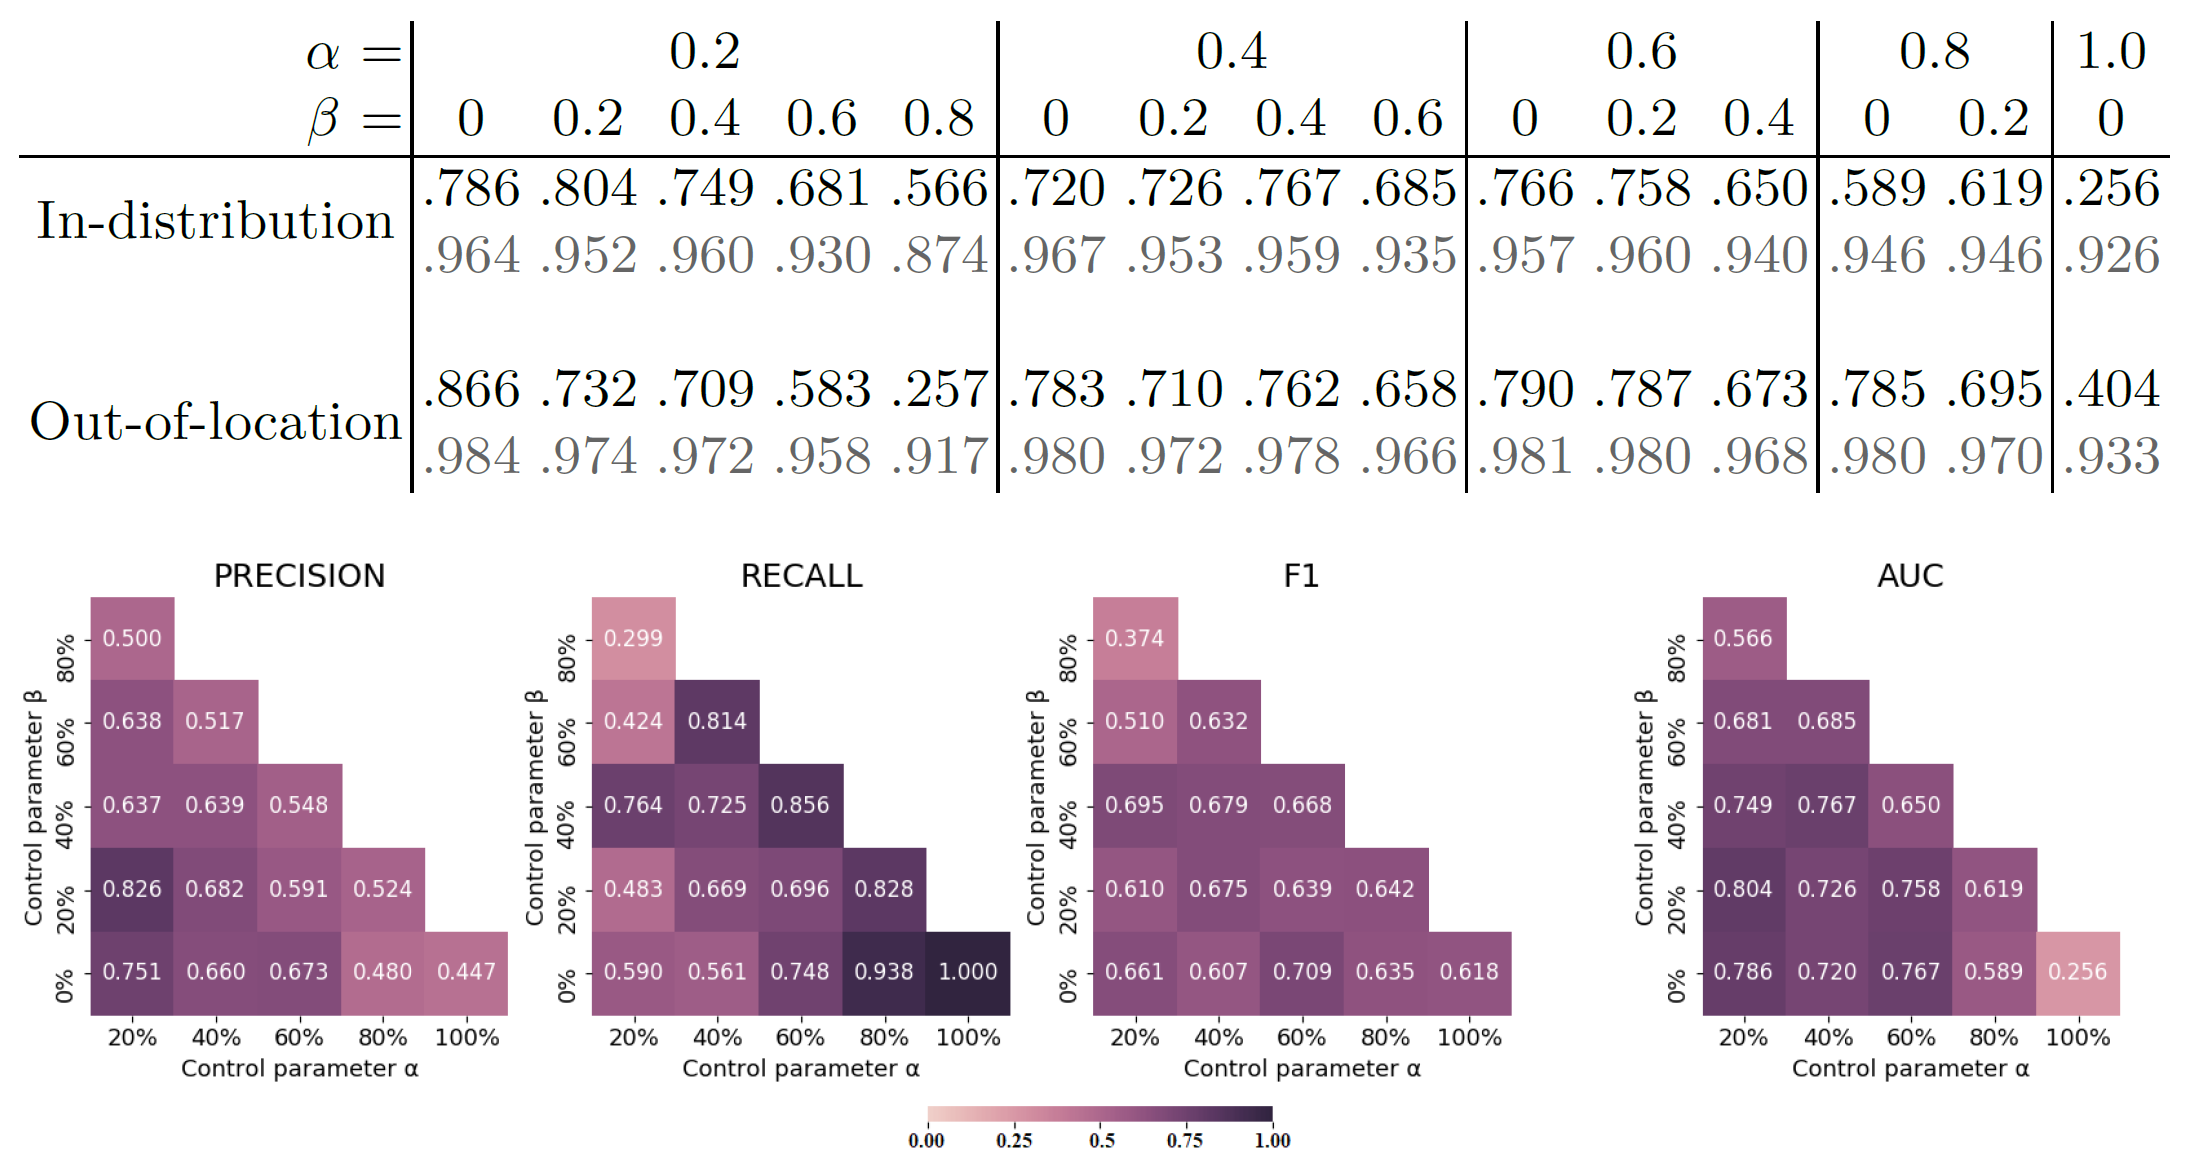
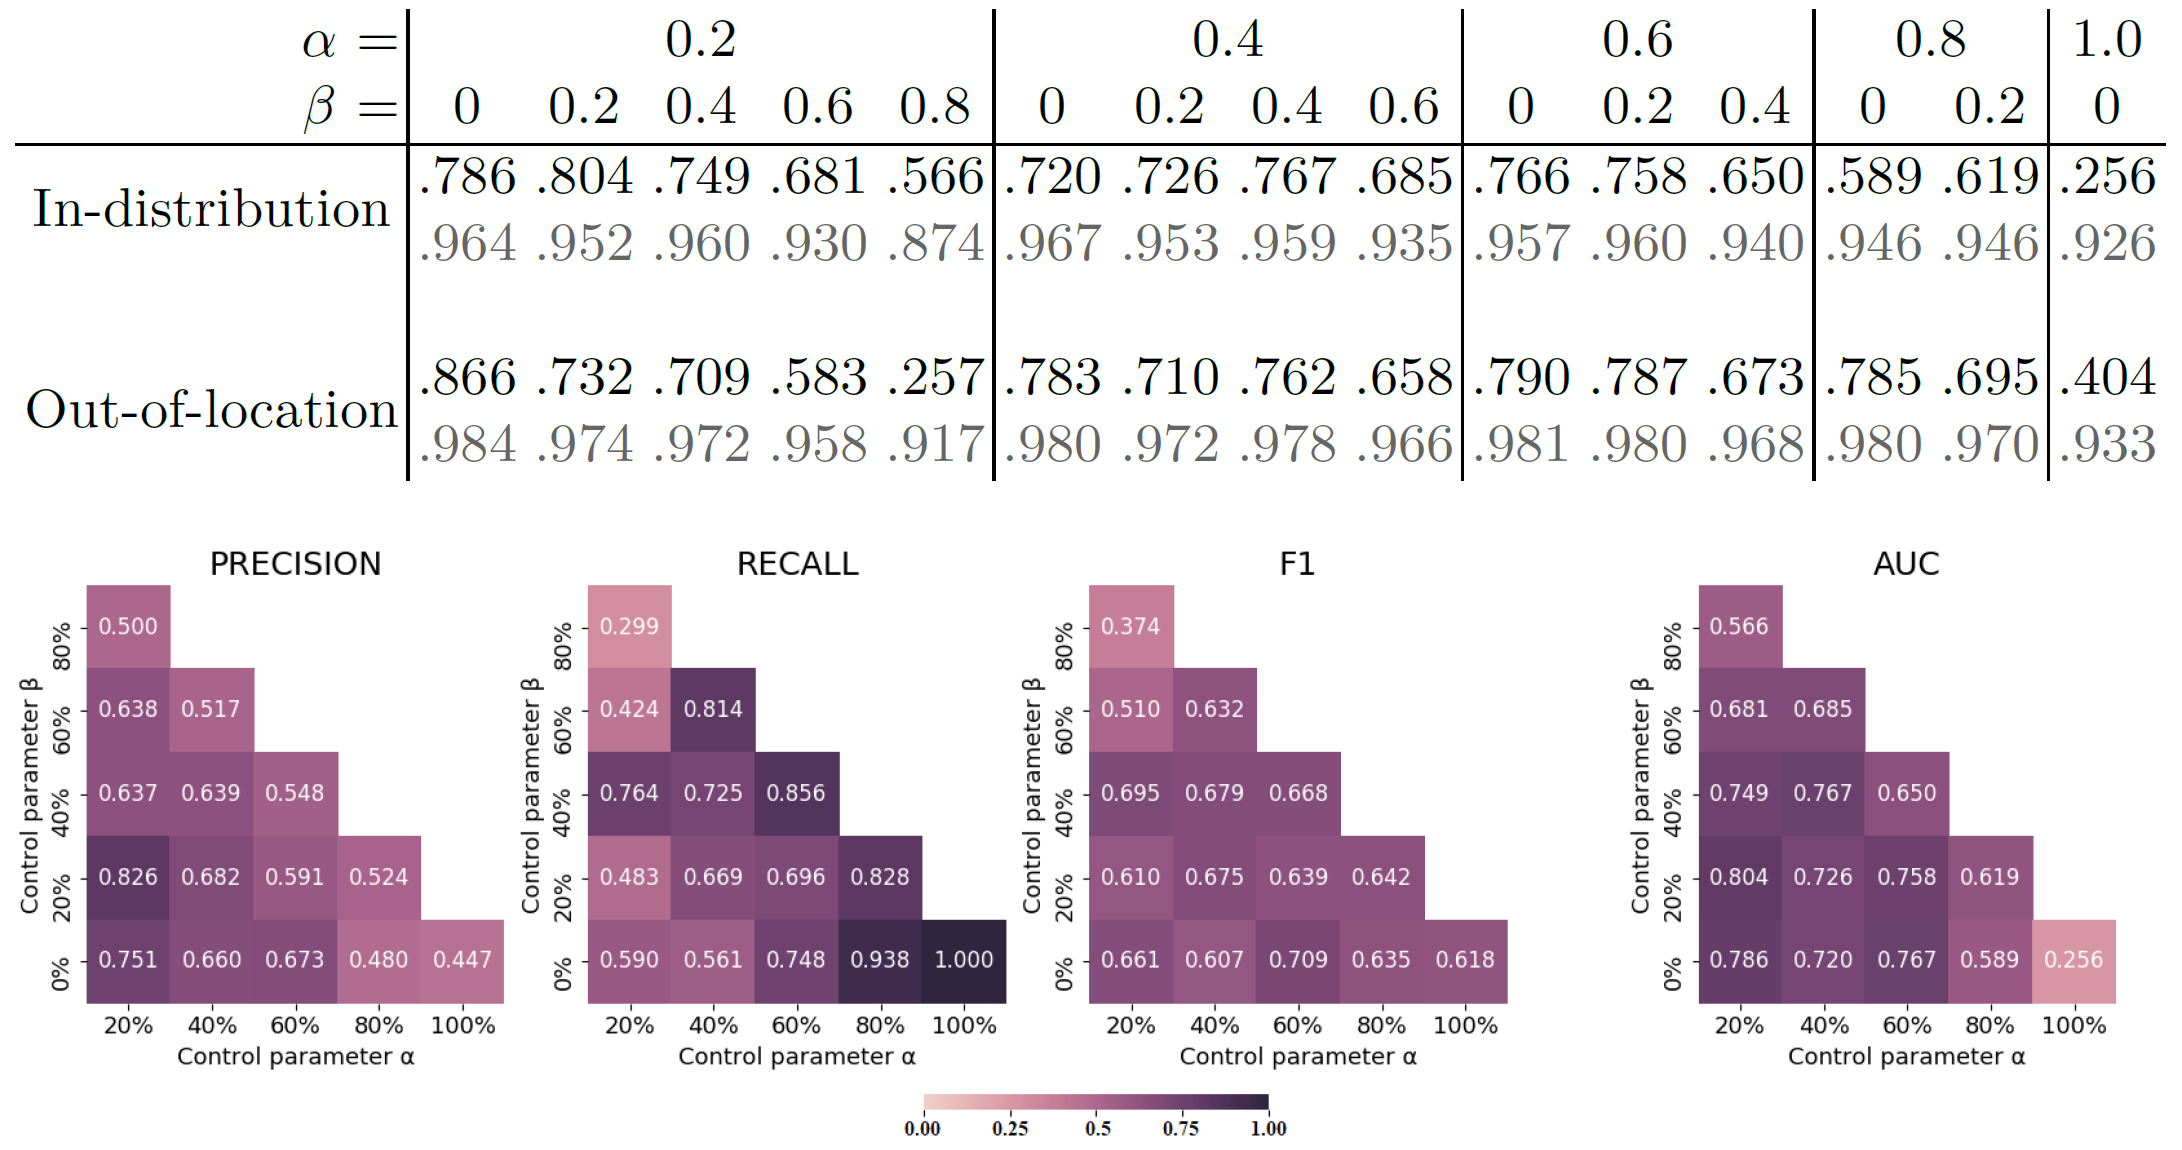
Updated paper notes

diff --git a/paper_notes/patch_classification.md b/paper_notes/patch_classification.md
@@ -9,8 +9,8 @@
 ![Image](images/patch_classification.png)
 
 ## Short Summary
-Within this paper a WSSS algorithm is proposed based on binary image-level labels of WSIs.
-MIL is applied to train an instance classifier model. Therefore, an WSI is divided into equally-sized patches (224 x 224) which are interpreted as instances.
+Within this paper a patch-based segmentation algorithm is proposed based on binary image-level labels of WSIs.
+MIL is applied to train an instance classifier model. Therefore, a WSI is divided into equally-sized patches (224 x 224) which are interpreted as instances.
 
 
 ## Five questions about this paper:
@@ -20,18 +20,27 @@ It tackles the problem of WSI segmentation using only binary image-level labels 
 
 
 ### 2. [Method] How does this paper solve the above problems?
-It trains a binary patch classifier which is then used to perform a segmentation of the gigapixel WSI.
-To train this model, a new method is proposed which enables to use patches with uncertain labels.
+It trains a binary patch classifier (ResNet50) which is then used to perform a segmentation of the gigapixel WSI.
+To train this model, a new method is proposed which enables to utilize patches with uncertain labels. 
+This includes all patches from WSIs which are labelled to have cancerous tissue, since the extracted patches could also contain no cancerous tissue.
+During training, a single forward pass batch contains only a subsample of 150 images from a WSI. 
+Label 1 (= cancerous) is assigned to 20% (= alpha) of the patches for which the network yields the highest probability.
+Label 0 (= non-cancerous) is assigned to 20% (= beta) of the patches for which for which the network yields the lowest probability.
+Only these patches are then used to update the weights. The rest is discarded.
+
 
 
 ### 3. Details about the experiment
 
 #### 3.1 Which Datasets are used?
+6481 flash-frozen WSIs of kidney, lung, and breast at 20x magnification from the TCGA dataset were used.
+From these, 4212, 972, and 1296 images were used for training, validation, and testing, respectively.
+130 of the test images were annotated on pixel-level for a better performance assesment. 
 
-
-
+To measure out-of-distribution performance, the model was evaluated on additional 100 slides extracted from locations that were not used during training (colon, ovary, corpus uteri).
+Additionally, the model was evaluated on the PatchCamelyon dataset, which contains formalin-fixed, parafin-embedded (FFPE) tissues. These are visually different from flash-frozen ones.
 #### 3.2 How is the experiment set up?
-
+15 ResNet50 networks with different configurations for alpha and beta were trained and compared with eachother on the test sets mentioned above.
 
 
 #### 3.3 What's the evaluation metric?
@@ -43,10 +52,13 @@ To train this model, a new method is proposed which enables to use patches with 
 
 #### 3.4 What is the ranking of the experiment results?
 No comparision with other methods was performed. 
+The following table shows the AUC values for different configurations. 
+Grey results take background into account.
 
+![Image](images/patch_classification_performance.png)
 
+Performance on PatchCamelyon is not included in the table above and achieved the optimal AUC of 0.802 for alpha = 20% and beta = 20%.
 ### 4. Advantages (self-summary rather than the author's)
-
 
 
 ### 5. Disadvantages (self-summary rather than the author's)
